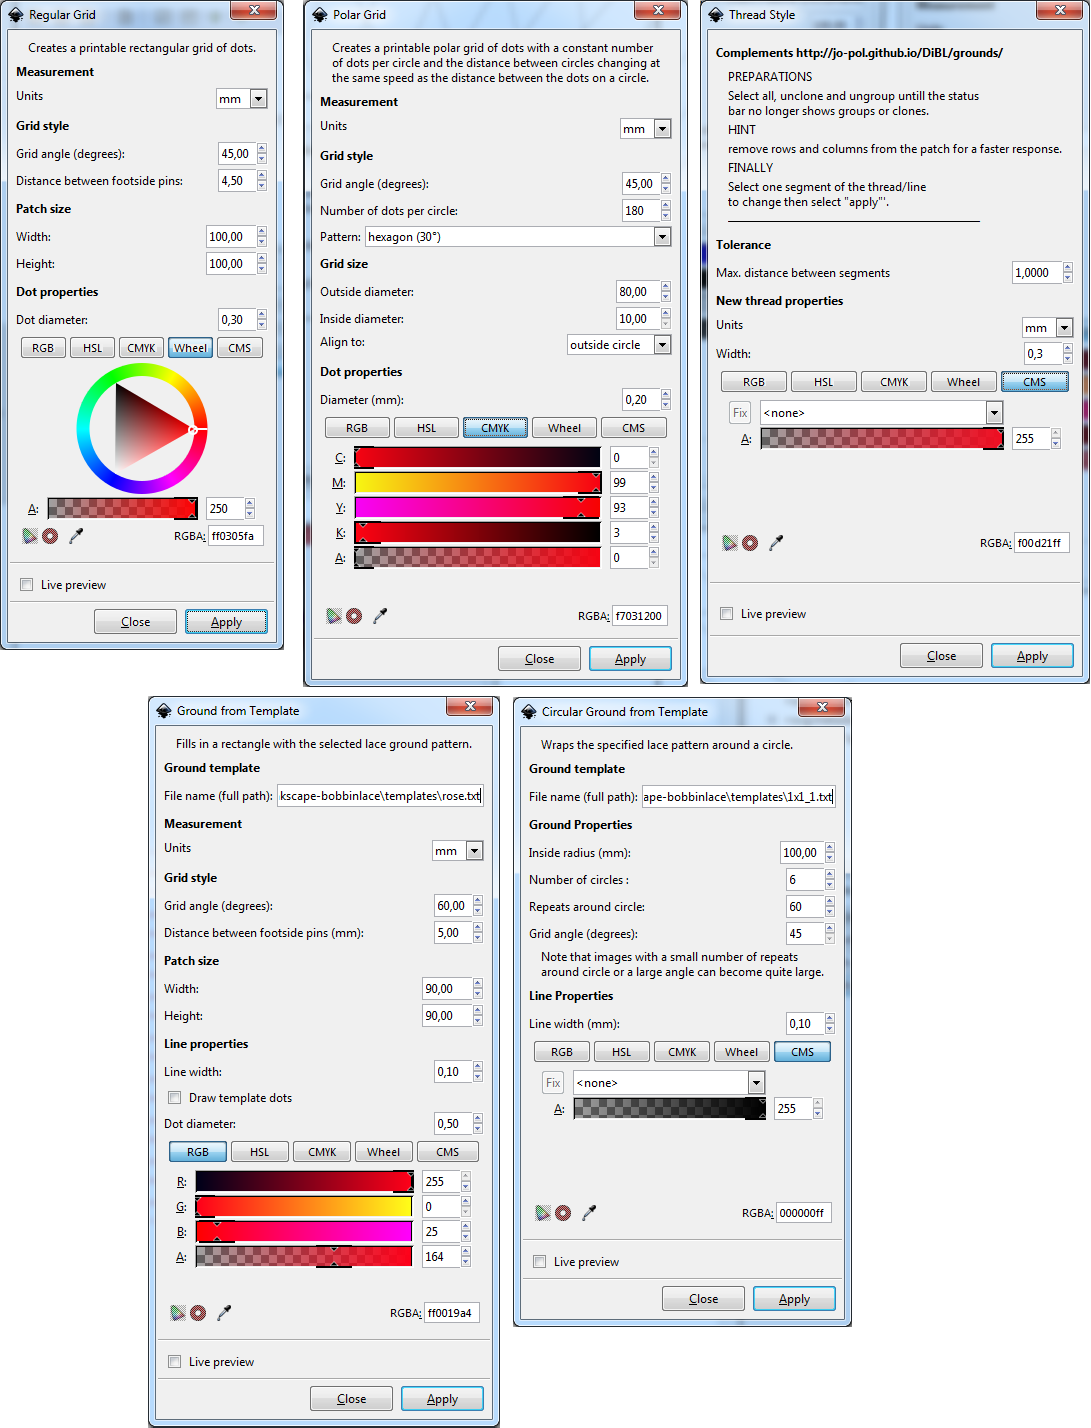
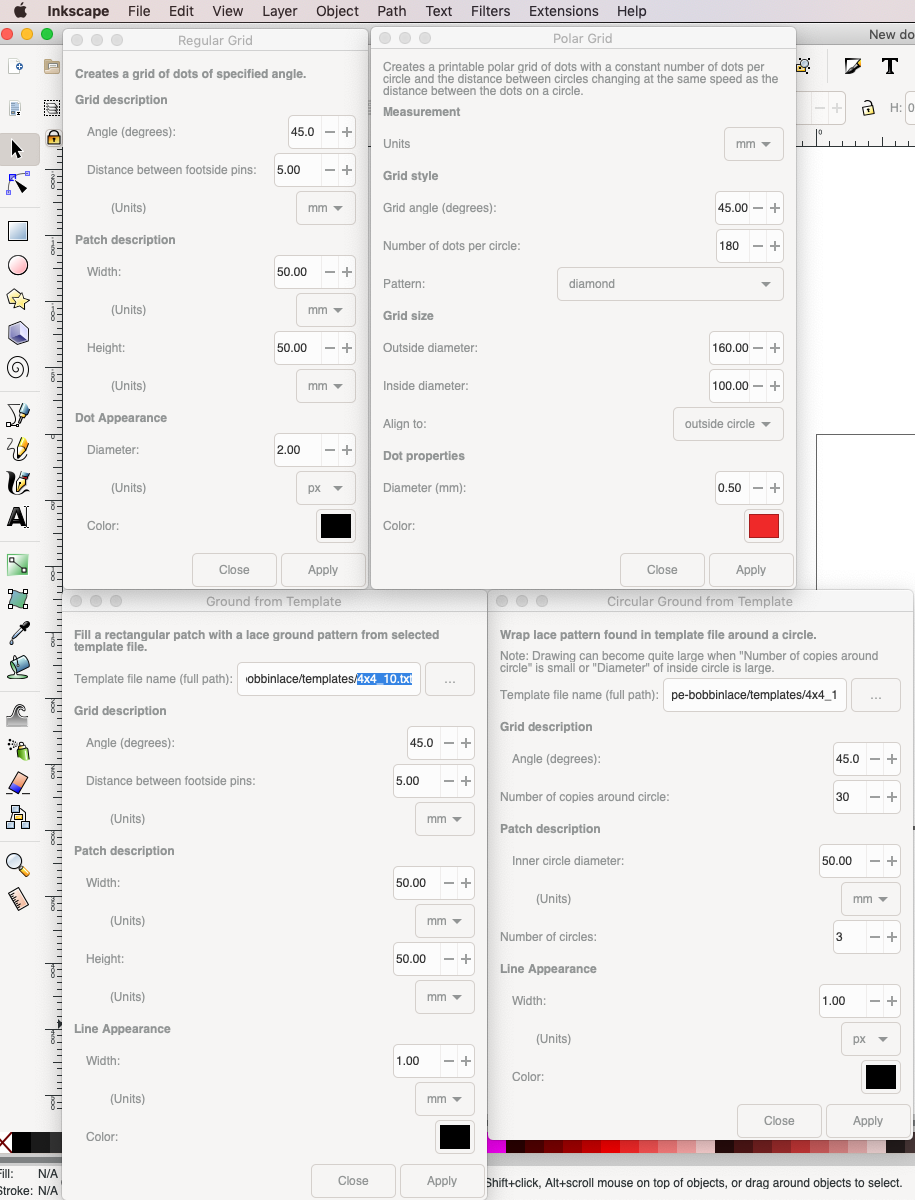
updated screen-shots, dropped thread-style, relative links

Changed region(s): [[0.0, 0.0, 1.0, 1.0]]

diff --git a/docs/_includes/Sidebar.html b/docs/_includes/Sidebar.html
@@ -5,7 +5,6 @@
     <li><a href="/inkscape-bobbinlace/Ground-from-Template">Ground from Template</a> (circular and straight, Simplified BSD)</li>
     <li><a href="/inkscape-bobbinlace/Polar-Grids">Polar Grids</a>, its <a href="/inkscape-bobbinlace/Polar-Math">math</a> (GPLv3)</li>
     <li><a href="/inkscape-bobbinlace/Regular-Grids">Regular Grids</a> (Simplified BSD)</li>
-    <li><a href="/inkscape-bobbinlace/Thread-Style">Thread Style</a> (obsolete, GPLv3)</li>
 </ul>
 <h2>Standard tools</h2>
 <ul>

diff --git a/docs/Polar-Grids.md b/docs/Polar-Grids.md
@@ -15,7 +15,7 @@ The diameter of the concentric circles in common polar grids increases at a cons
 DiBL generates grids with a consistent shape of the stitches, 
 the diameter of the circles increases in proportion with the distance between dots along each circle.
 
-![/inkscape-bobbinlace/polar-images/compared.png](/inkscape-bobbinlace/polar-images/compared.png)
+![polar-images/compared.png](polar-images/compared.png)
 
 This article is about the InkScape extension, 
 with the [web-based version](https://d-bl.github.io/polar-grids/) you gain examples but loose functionality.
@@ -29,7 +29,7 @@ Once the extensions are properly [installed], you can select `polar grid` from t
 
 [installed]: /inkscape-bobbinlace/
 
-<img align="right" src="/inkscape-bobbinlace/polar-images/menu.png" alt="menu"/>
+<img align="right" src="polar-images/menu.png" alt="menu"/>
 
 A dialog allows to configure the grid. A few notes:
 * Within the choice list of grid patterns, a tiny cheat sheet advises angles and repeat factors.
@@ -40,8 +40,8 @@ A dialog allows to configure the grid. A few notes:
 * To connect the dots: switch on snap cusp nodes to the centre of bounding boxes.
   But of course you can just print the grid and continue with pencil or ink.
 
-dialog: [![/inkscape-bobbinlace/polar-images/dialog.png](/inkscape-bobbinlace/polar-images/dialog-thumb.png)](/inkscape-bobbinlace/polar-images/dialog.png)
-effects of ignoring the cheat sheet: [![/inkscape-bobbinlace/polar-images/cheatsheet.png](/inkscape-bobbinlace/polar-images/cheatsheet-thumb.png)](/inkscape-bobbinlace/polar-images/cheatsheet.png)
+dialog: [![polar-images/dialog.png](polar-images/dialog-thumb.png)](polar-images/dialog.png)
+effects of ignoring the cheat sheet: [![polar-images/cheatsheet.png](polar-images/cheatsheet-thumb.png)](polar-images/cheatsheet.png)
 
 
 Pin distances
@@ -53,7 +53,7 @@ to get a rough estimation of the required number of dots.
 The value however changes from the inside to the outside.
 The measurement tool of InkScape (available since release 0.91) can tell you any distance you want to know.
 
-![/inkscape-bobbinlace/polar-images/pin-distance.png](/inkscape-bobbinlace/polar-images/pin-distance.png)
+![polar-images/pin-distance.png](polar-images/pin-distance.png)
 
 [thread size]: http://bobbin-lace.wikispaces.com/Thread+width+and+pattern+size
 
@@ -64,8 +64,8 @@ Keep repeats in mind to choose the number of dots.
 For the fans shown below the number of dots should be a multitude of three as indicated by the red dots.
 The style of grids however may also have a repeat, which is indicated by the selected grid pattern.
 
-![/inkscape-bobbinlace/polar-images/fan.png](/inkscape-bobbinlace/polar-images/fan.png)
-![/inkscape-bobbinlace/polar-images/repeats.png](/inkscape-bobbinlace/polar-images/repeats.png)
+![polar-images/fan.png](polar-images/fan.png)
+![polar-images/repeats.png](polar-images/repeats.png)
 
 
 Grouped dots
@@ -78,7 +78,7 @@ To delete sections of the grid (to keep just a pie or fan)
 you first have to ungroup these circles,
 the label with the diameter will get lost.
 
-properties: [![/inkscape-bobbinlace/polar-images/properties.png](/inkscape-bobbinlace/polar-images/properties-thumb.png)](/inkscape-bobbinlace/polar-images/properties-thumb.png)
+properties: [![polar-images/properties.png](polar-images/properties-thumb.png)](polar-images/properties-thumb.png)
 
 
 Concentric grids
@@ -92,7 +92,7 @@ The ratio of dots between the green and red grid in the example is 2:3.
 This difference could for example be bridged with asymmetrical spiders,
 in this case four legs on the inside, six on the outside.
 
-![/inkscape-bobbinlace/polar-images/asym-spider.svg](/inkscape-bobbinlace/polar-images/asym-spider.png)
+![polar-images/asym-spider.svg](polar-images/asym-spider.png)
 
 
 Merge grids
@@ -105,9 +105,9 @@ Merging grids allows more than the built-in choices of dot-patterns. A few examp
 Align the second grid to a second ring for alternating patterns.
 
 The [math] is an approximation, so you might see small inaccuracies with extreme values.
-[math]: https://github.com/d-bl/inkscape-bobbinlace/pull/5/files#diff-326bb6c119212f45e228f5e0516187e3
+[math]: https://github.com/d-blpull/5/files#diff-326bb6c119212f45e228f5e0516187e3
 
-![/inkscape-bobbinlace/polar-images/merged.png](/inkscape-bobbinlace/polar-images/merged.png)
+![polar-images/merged.png](polar-images/merged.png)
 
 
 Java based versions
@@ -117,6 +117,6 @@ The Java [proof of concept] in DiBL is a stripped version of the stand alone Jav
 in the [BobbinWork] project, the interface of this [old generator] might be challenging
 and it provides only the diamond pattern of dots. It served as a blue print for the python script.
 
-[proof of concept]: https://github.com/d-bl/inkscape-bobbinlace/tree/5d5dc36e50ccc6468b62d358381cda1cda64ad6b/standalone/grids/dibl-polar
+[proof of concept]: https://github.com/d-bltree/5d5dc36e50ccc6468b62d358381cda1cda64ad6b/standalone/grids/dibl-polar
 [BobbinWork]: https://github.com/jo-pol/bobbinwork
 [old generator]: https://storage.googleapis.com/google-code-archive-downloads/v1/code.google.com/bobbinwork/bwpGrid-rel-2.0.115.jar

diff --git a/docs/Regular-Grids.md b/docs/Regular-Grids.md
@@ -6,15 +6,15 @@ Regular Grids
 
 When you start InkScape, if the lace tool extensions are [installed] correctly you should see a menu called `Bobbin Lace` under the main `Extensions` menu. Under the `Bobbin Lace` menu you will see among others the option `Regular Grid…`.
 
-![Screenshot from Inkscape: Bobbin lace tool menu under Extensions](/inkscape-bobbinlace/regular-images/menu.png)
+![Screenshot from Inkscape: Bobbin lace tool menu under Extensions](regular-images/menu.png)
 
 The Bobbin Lace `Regular Grid` tool will allow you to draw a grid of dots. In the pop up dialog you can specify the angle of the grid, the distance between the footside pins and the size of rectangle you want to fill with dots. After you have selected the desired values, click on the “Apply” button.
 
-![Screenshot from Inkscape: Regular Grid tool](/inkscape-bobbinlace/regular-images/grid.png)
+![Screenshot from Inkscape: Regular Grid tool](regular-images/grid.png)
 
 The distance between footside pins is the vertical measurement between two dots on the grid. When designing lace, you can use the handy [reference by Brenda Paternoster] to determine the size of your grid based on the size of your thread.
 
-![footside](/inkscape-bobbinlace/regular-images/footside.png)
+![footside](regular-images/footside.png)
 
 [installed]: /inkscape-bobbinlace/
 [reference by Brenda Paternoster]: http://paternoster.orpheusweb.co.uk/lace/threadsize/threadsize.html

diff --git a/docs/Ground-from-Template.md b/docs/Ground-from-Template.md
@@ -34,13 +34,13 @@ Browse with the file explorer/finder of your operating system
 through the template directory which comes with the [installation] package.
 You will see over 200 pairs of images and text files. the following screenshot shows just a few:
  
-![/inkscape-bobbinlace/grouds-images/browse-screenshot.png](/inkscape-bobbinlace/grouds-images/browse-screenshot.png)
+![grouds-images/browse-screenshot.png](grouds-images/browse-screenshot.png)
 
 Copy paste the path of the text file for the desired pattern in the dialog of the plugin of your choice.
 
-![/inkscape-bobbinlace/grouds-images/plugin-screenshot.png](/inkscape-bobbinlace/grouds-images/plugin-screenshot.png)
+![grouds-images/plugin-screenshot.png](grouds-images/plugin-screenshot.png)
 
 Most other parameters in the dialog parameters should speak for them selves.
 The help pages for the grid extensions explain pin distances and footsides.
 
-![footside](/inkscape-bobbinlace/regular-images/footside.png)
+![footside](regular-images/footside.png)

diff --git a/docs/Deformation.md b/docs/Deformation.md
@@ -8,9 +8,9 @@ Standard Deformations Tools
 After generating a pattern, you can apply deformations with standard InkScape tools.
 The following screenshots show just some examples in progress.
 
-![/inkscape-bobbinlace/deformation-images/rubber-screenshot.png](/inkscape-bobbinlace/deformation-images/rubber-screenshot.png)
+![deformation-images/rubber-screenshot.png](deformation-images/rubber-screenshot.png)
 
 The following effects require to `combine` the desired objects into a single `path`.
 In more complex situations the `select same...` function under the `edit` menu can pay off.
 
-![/inkscape-bobbinlace/deformation-images/effects.png](/inkscape-bobbinlace/deformation-images/effects.png)
+![deformation-images/effects.png](deformation-images/effects.png)

diff --git a/docs/index.md b/docs/index.md
@@ -8,9 +8,9 @@ A screen shot below shows the dialogs with descriptions of the plugins.
 The [side-bar](#sidebar) has a help page for each one.
 Note that you can choose your favourite color chooser at any of the dialogs.
 
-![titles](/inkscape-bobbinlace/home-images/examples.png)
+![titles](home-images/examples.png)
 
-![menu](/inkscape-bobbinlace/home-images/menu.png)
+![menu](home-images/dialogs.png)
 
-[zoom in](/inkscape-bobbinlace/home-images/dialogs.png)
-![dialogs](/inkscape-bobbinlace/home-images/dialogs.png)
+[zoom in](home-images/menu.png)
+![dialogs](home-images/menu.png)

diff --git a/docs/installation.md b/docs/installation.md
@@ -19,7 +19,7 @@ Then download the desired bobbin lace extensions from the last [release] and unp
 
   Once the files are in place and InkScape is restarted, the new extensions are available via the `bobbin lace` menu under `extensions` as  shown in the screenshot below. Follow the same procedure to upgrade or downgrade an extension.
 
-  ![menu](/inkscape-bobbinlace/home-images/menu.png)
+  ![menu](home-images/menu.png)
 
 Mac OS-X
 --------
